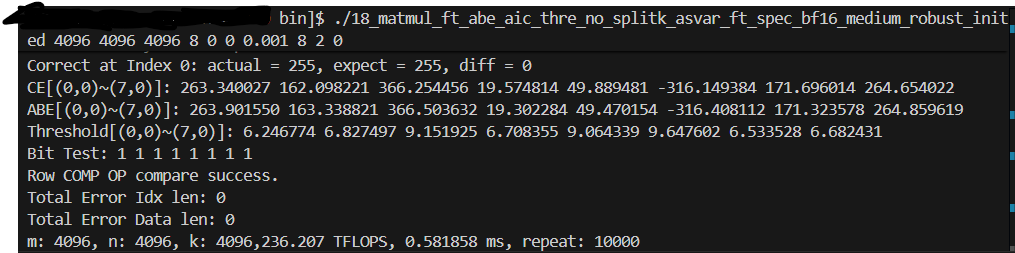
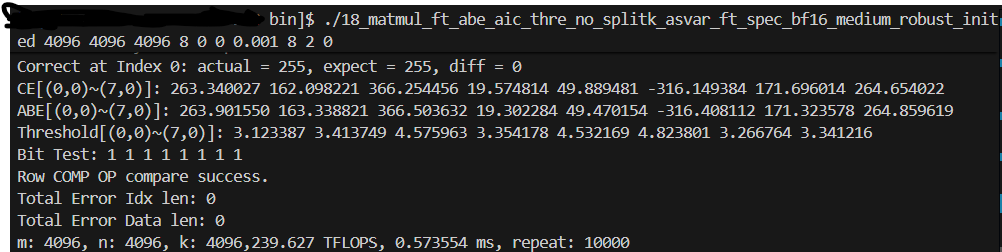
add examples

diff --git a/examples/18_matmul_ft_abe_aic_thre_no_splitk_asvar_ft_spec_bf16_large_robust_inited/matmual_ft.cpp b/examples/18_matmul_ft_abe_aic_thre_no_splitk_asvar_ft_spec_bf16_large_robust_inited/matmual_ft.cpp
@@ -894,7 +894,8 @@ void Run(Options options) {
     if(k <= 1024){
         use_emax = use_emax * 1.0f;
     }else{
-        use_emax = use_emax * std::sqrt(((k*1.0f / 1024*1.0f)*1.0f));
+        use_emax = use_emax * 1.0f;
+        // * std::sqrt(((k*1.0f / 1024*1.0f)*1.0f));
     }
 
     typename MatmulFTKernel::Arguments arguments{

diff --git a/examples/18_matmul_ft_abe_aic_thre_no_splitk_asvar_ft_spec_bf16_medium_robust_inited/matmual_ft.cpp b/examples/18_matmul_ft_abe_aic_thre_no_splitk_asvar_ft_spec_bf16_medium_robust_inited/matmual_ft.cpp
@@ -893,7 +893,8 @@ void Run(Options options) {
     if(k <= 1024){
         use_emax = use_emax * 1.0f;
     }else{
-        use_emax = use_emax * std::sqrt(((k*1.0f / 1024*1.0f)*1.0f));
+        use_emax = use_emax * 1.0f;
+        // * std::sqrt(((k*1.0f / 1024*1.0f)*1.0f));
     }
 
     typename MatmulFTKernel::Arguments arguments{

diff --git a/examples/18_matmul_ft_abe_aic_thre_no_splitk_asvar_ft_spec_bf16_medium_simple_inited/matmual_ft.cpp b/examples/18_matmul_ft_abe_aic_thre_no_splitk_asvar_ft_spec_bf16_medium_simple_inited/matmual_ft.cpp
@@ -900,7 +900,8 @@ void Run(Options options) {
     if(k <= 1024){
         use_emax = use_emax * 1.0f;
     }else{
-        use_emax = use_emax * std::sqrt(((k*1.0f / 1024*1.0f)*1.0f));
+        use_emax = use_emax * 1.0f;
+        // * std::sqrt(((k*1.0f / 1024*1.0f)*1.0f));
     }
 
     typename MatmulFTKernel::Arguments arguments{

diff --git a/examples/18_matmul_ft_abe_aic_thre_no_splitk_asvar_ft_spec_bf16_small_robust_inited/matmual_ft.cpp b/examples/18_matmul_ft_abe_aic_thre_no_splitk_asvar_ft_spec_bf16_small_robust_inited/matmual_ft.cpp
@@ -894,7 +894,8 @@ void Run(Options options) {
     if(k <= 1024){
         use_emax = use_emax * 1.0f;
     }else{
-        use_emax = use_emax * std::sqrt(((k*1.0f / 1024*1.0f)*1.0f));
+        use_emax = use_emax * 1.0f;
+        // * std::sqrt(((k*1.0f / 1024*1.0f)*1.0f));
     }
 
     typename MatmulFTKernel::Arguments arguments{

diff --git a/examples/18_matmul_ft_abe_aic_thre_no_splitk_asvar_ft_spec_bf16_small_simple_inited/matmual_ft.cpp b/examples/18_matmul_ft_abe_aic_thre_no_splitk_asvar_ft_spec_bf16_small_simple_inited/matmual_ft.cpp
@@ -902,7 +902,8 @@ void Run(Options options) {
     if(k <= 1024){
         use_emax = use_emax * 1.0f;
     }else{
-        use_emax = use_emax * std::sqrt(((k*1.0f / 1024*1.0f)*1.0f));
+        use_emax = use_emax * 1.0f;
+        // * std::sqrt(((k*1.0f / 1024*1.0f)*1.0f));
     }
 
     typename MatmulFTKernel::Arguments arguments{
